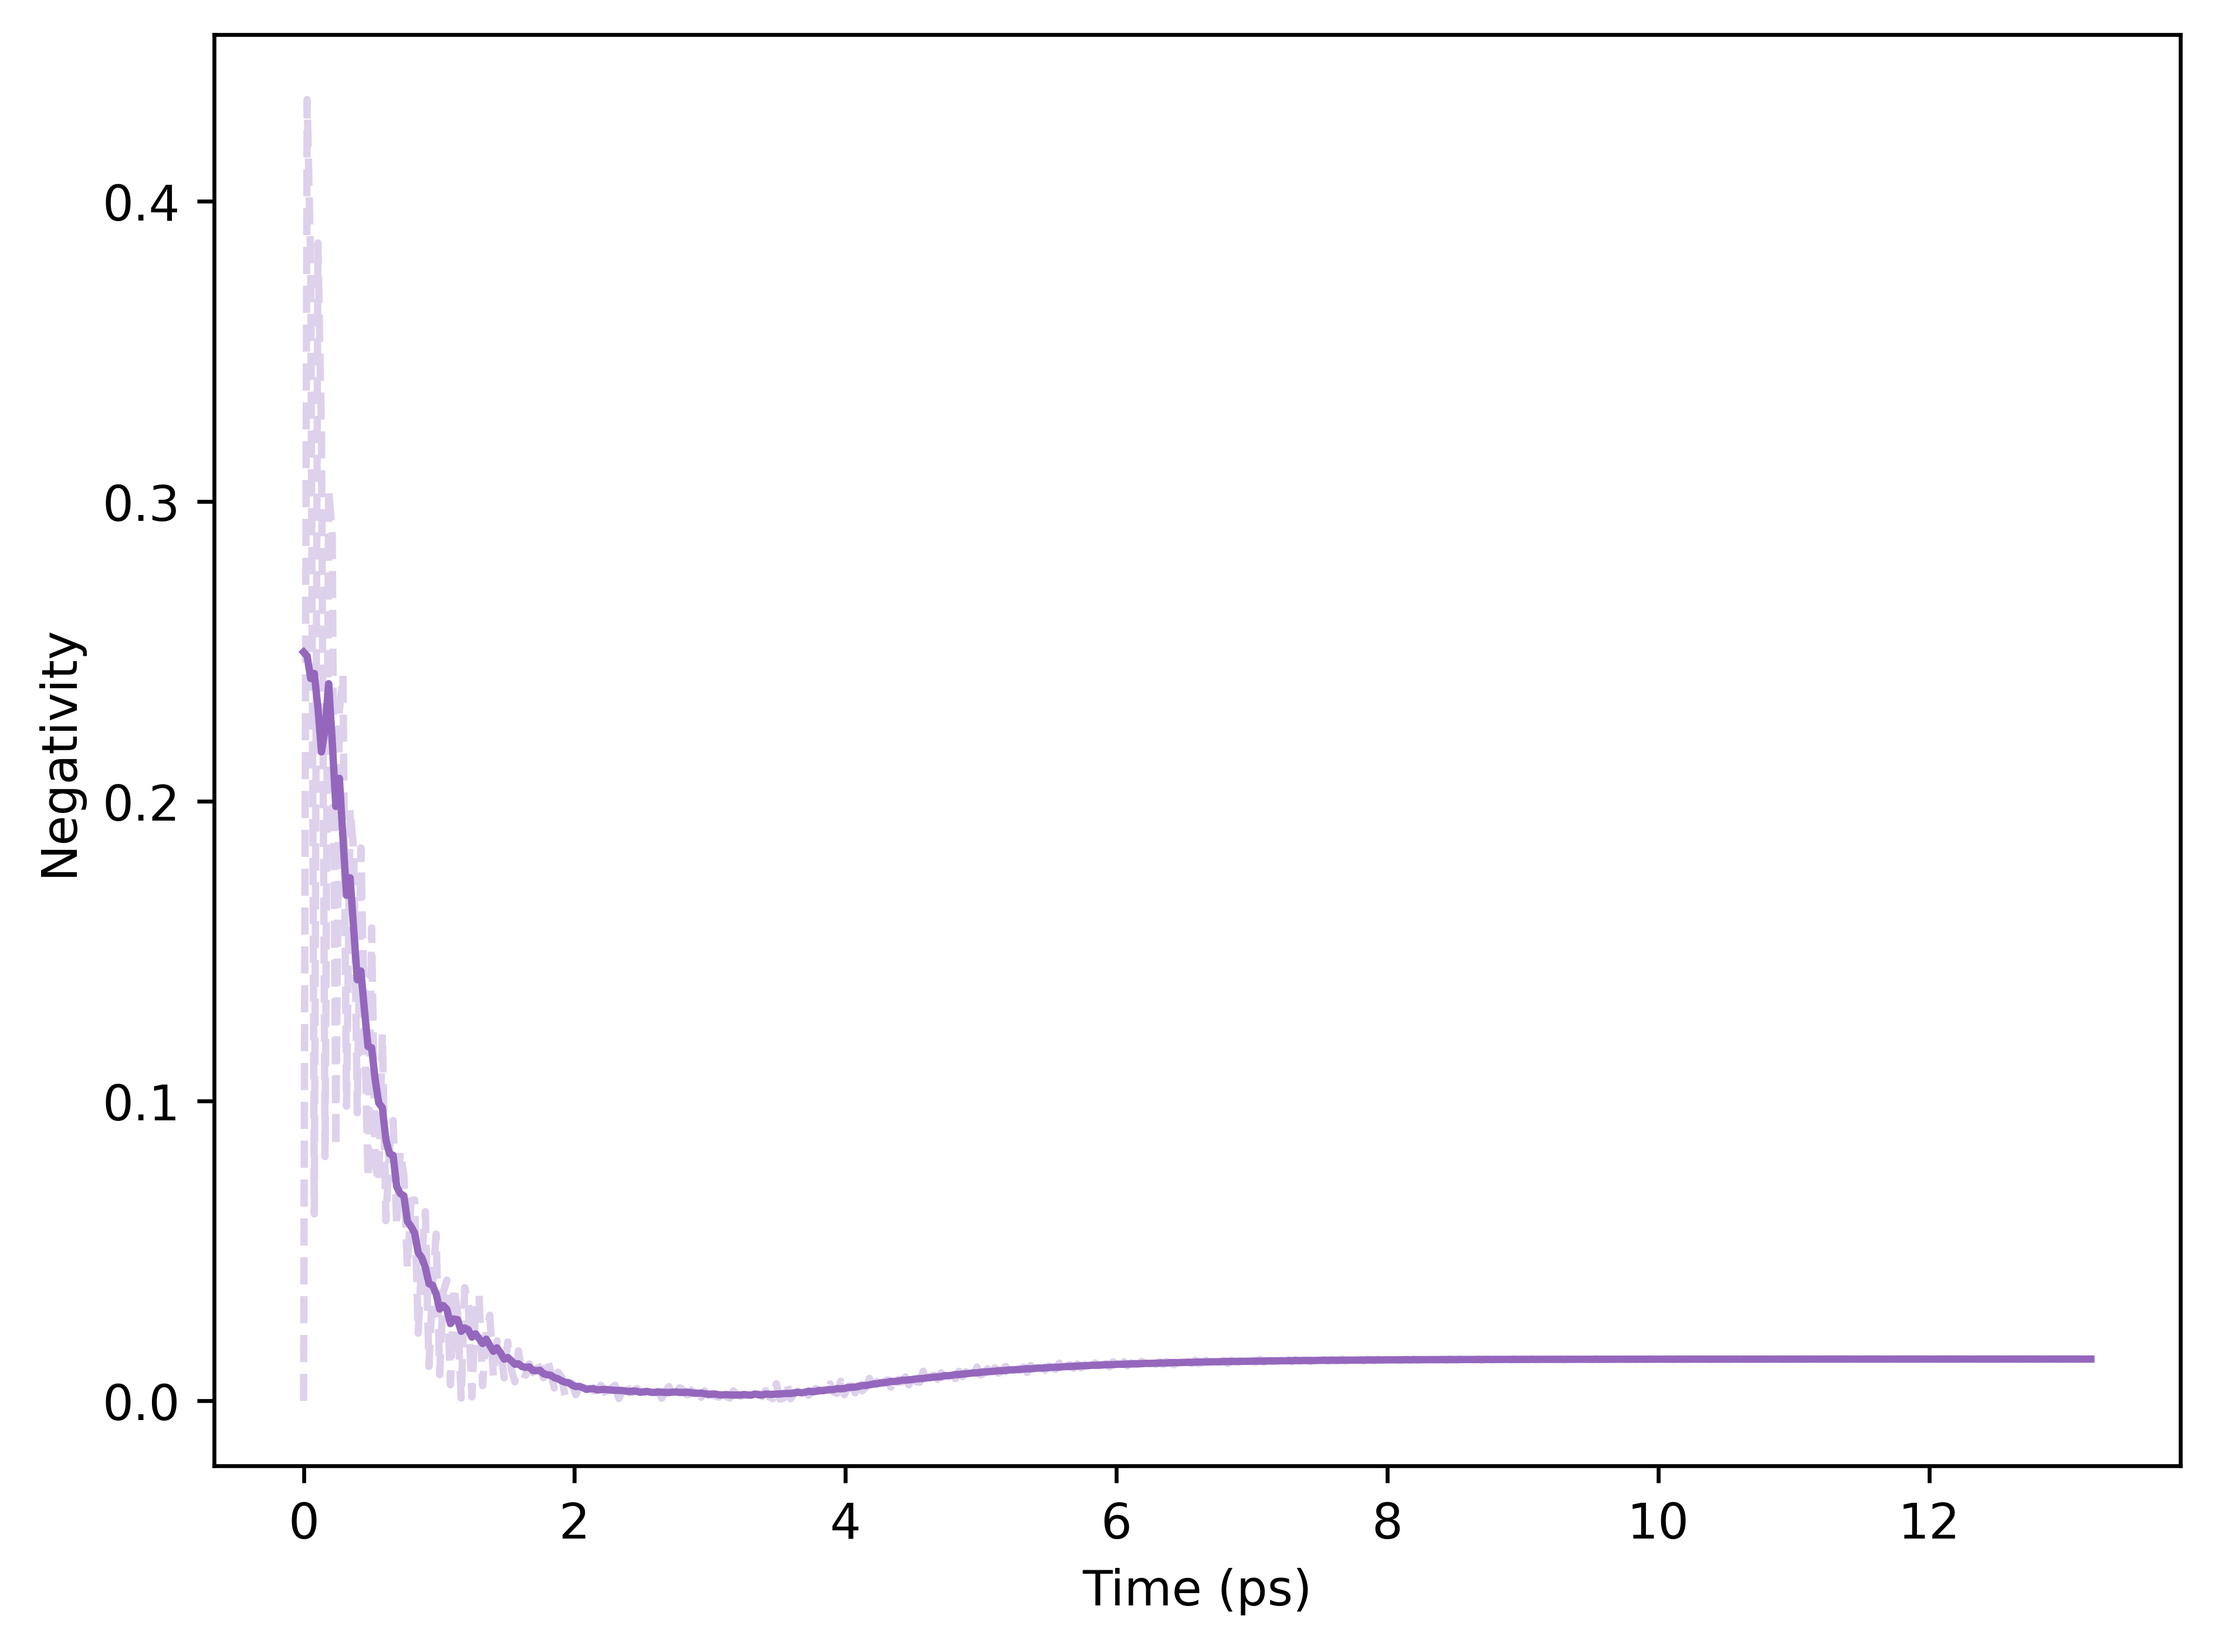
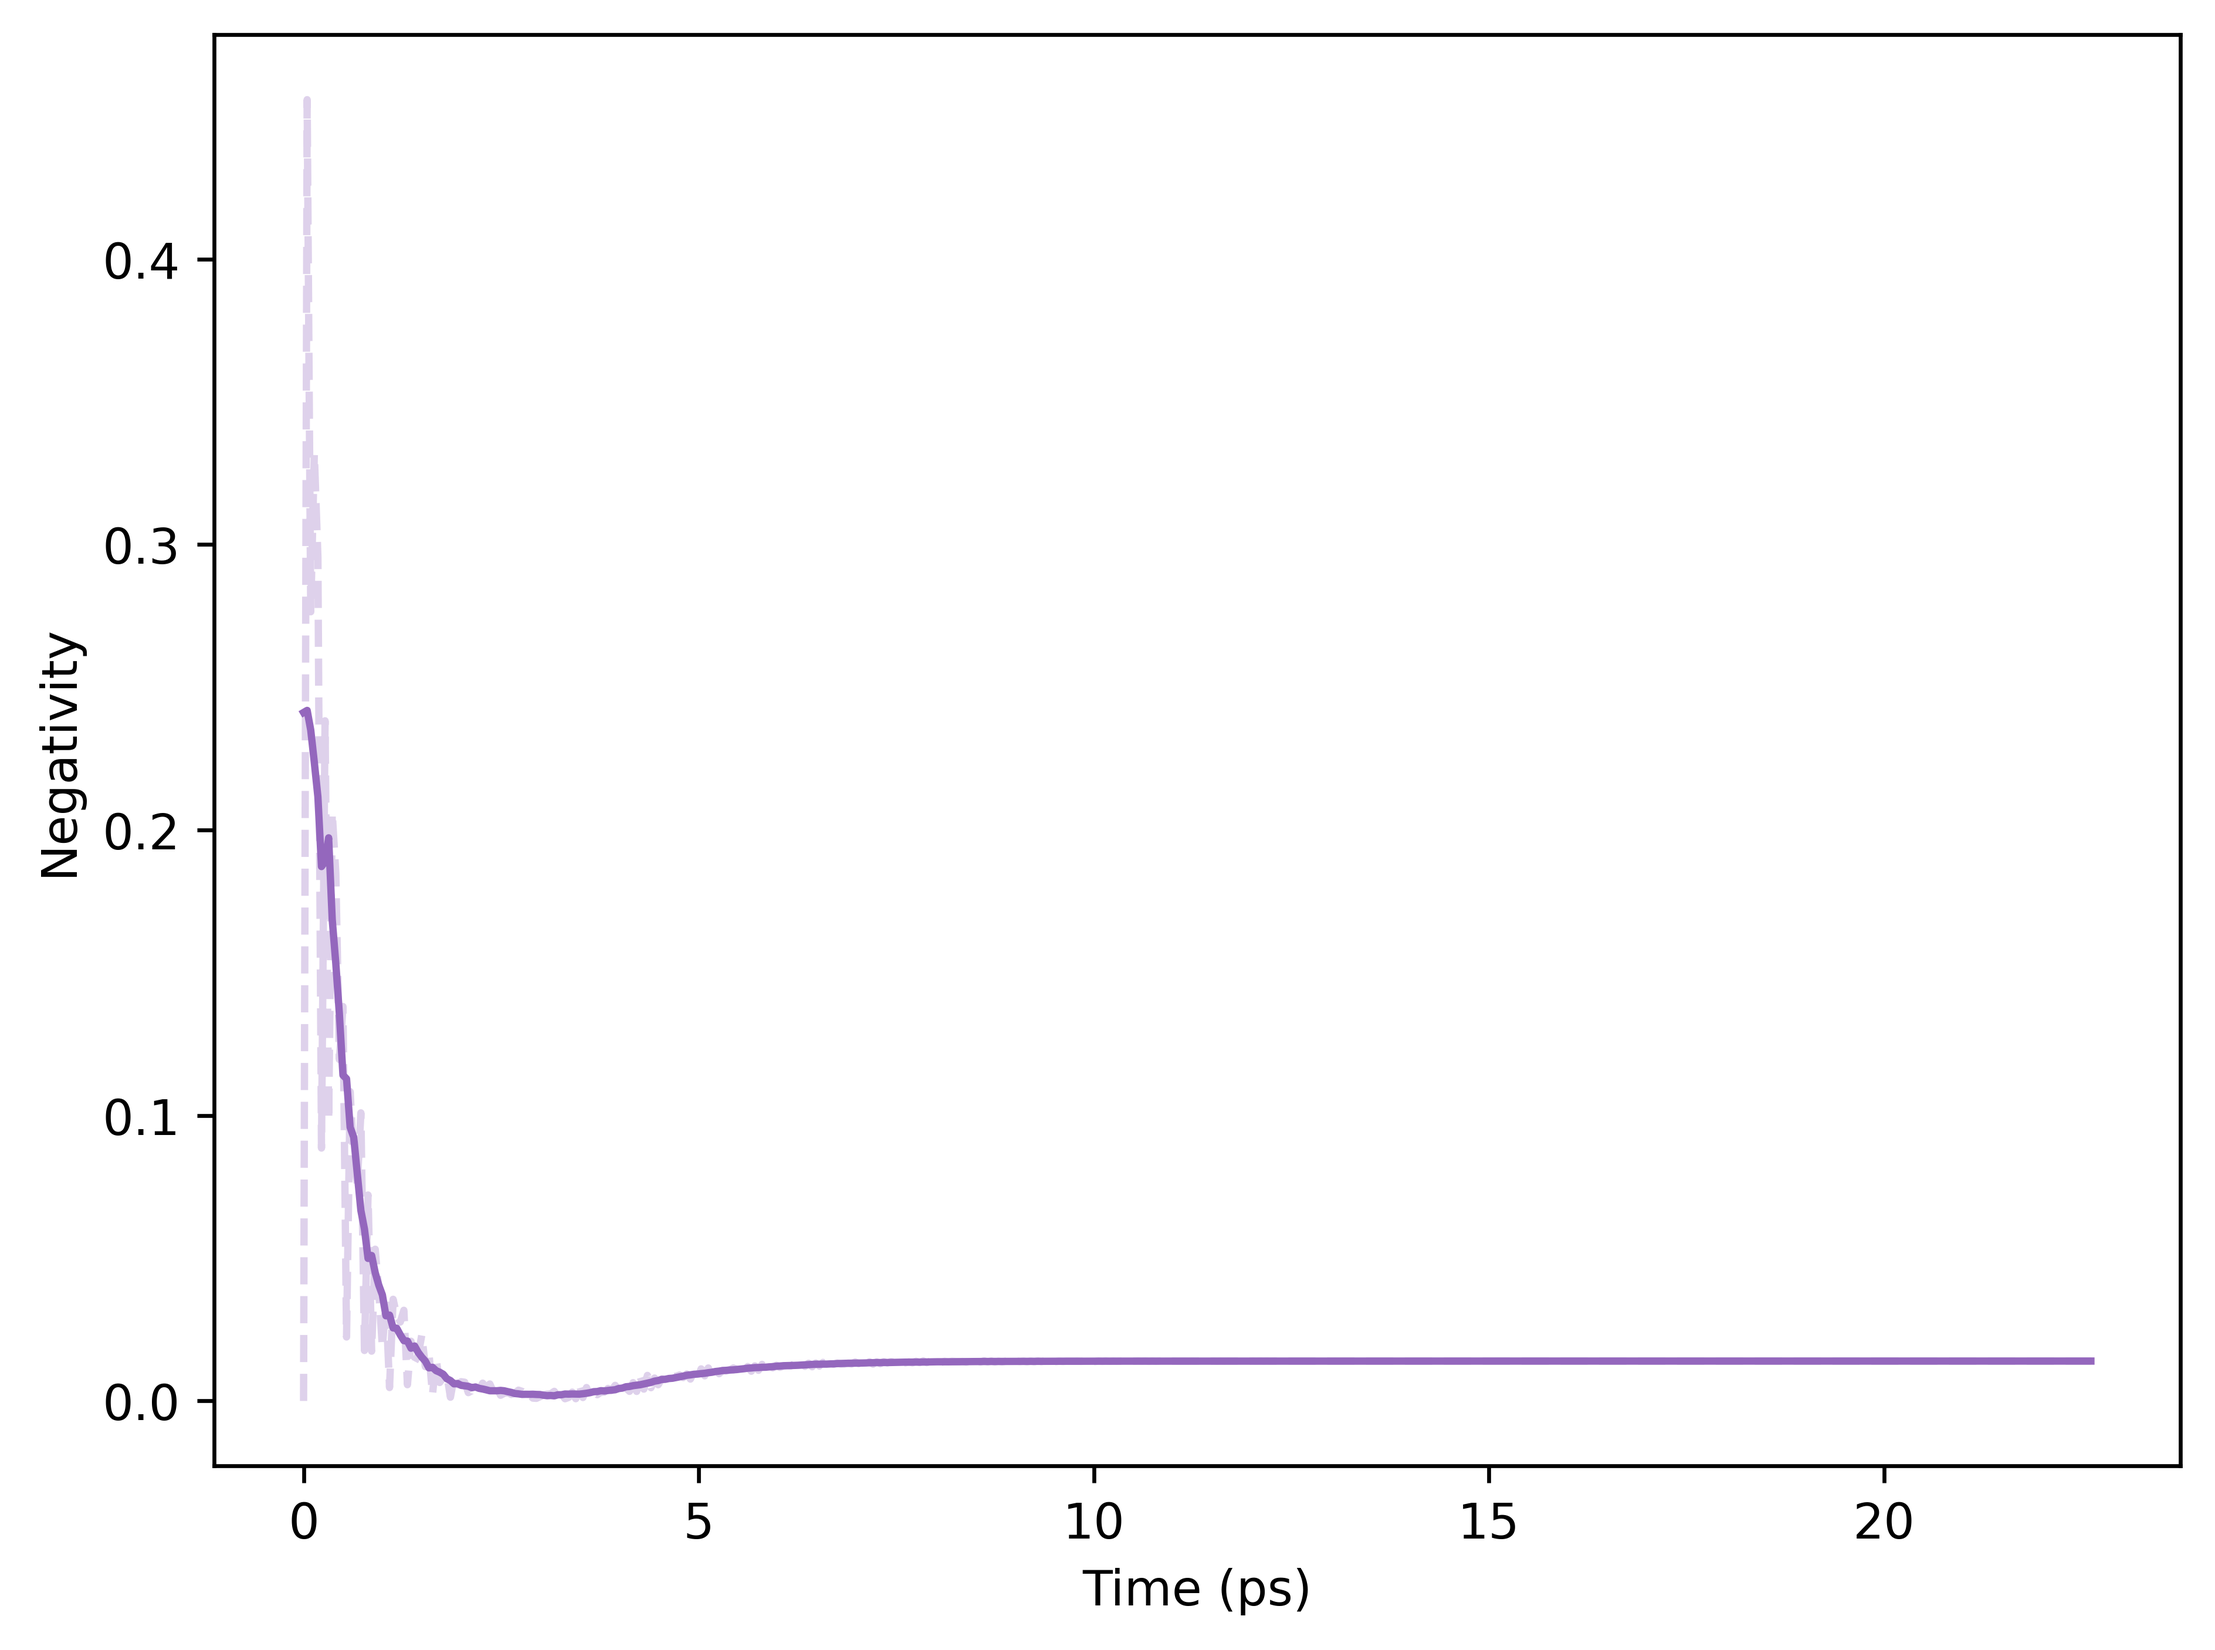
Increases timescales of open evolution of ExVib system to improve decay visualisation.

diff --git a/Research Project/Code/ExVib_Coh_Open.py b/Research Project/Code/ExVib_Coh_Open.py
@@ -14,8 +14,8 @@ for 3 Lindblad Decay Operators: Spontaneous Atomic Emission, Thermal Dissipation
 # g = w*(0.0578)^0.5 = 267 cm^-1
 # Moreover, T ~ 300K room temp expt.
 
-t_max = 70 # ps
-tlist = np.linspace(0.0, 2 * np.pi * 0.03 * t_max, 300)
+t_max = 120 # ps
+tlist = np.linspace(0.0, 2 * np.pi * 0.03 * t_max, 500)
 
 # t in cm conversion, noting original time is in ps
 

diff --git a/Research Project/Code/ExVib_Pops_Open.py b/Research Project/Code/ExVib_Pops_Open.py
@@ -15,8 +15,8 @@ Emission, Thermal Dissipation, and both combined.
 # g = w*(0.0578)^0.5 = 267 cm^-1
 # Moreover, T ~ 300K room temp expt.
 
-t_max = 70.0  # ps
-tlist = np.linspace(0.0, 2 * np.pi * 0.03 * t_max, 300)
+t_max = 120.0  # ps
+tlist = np.linspace(0.0, 2 * np.pi * 0.03 * t_max, 500)
 
 # t in cm conversion, noting original time is in ps
 

diff --git a/Research Project/Code/ExVib_Neg_Open.py b/Research Project/Code/ExVib_Neg_Open.py
@@ -14,7 +14,7 @@ for 3 Lindblad Decay Operators: Spontaneous Atomic Emission, Thermal Dissipation
 # g = w*(0.0578)^0.5 = 267 cm^-1
 # Moreover, T ~ 300K room temp expt.
 
-t_max = 70.0  # ps
+t_max = 120.0  # ps
 tlist = np.linspace(0.0, 2 * np.pi * 0.03 * t_max, 500)
 
 # t in cm conversion, noting original time is in ps
